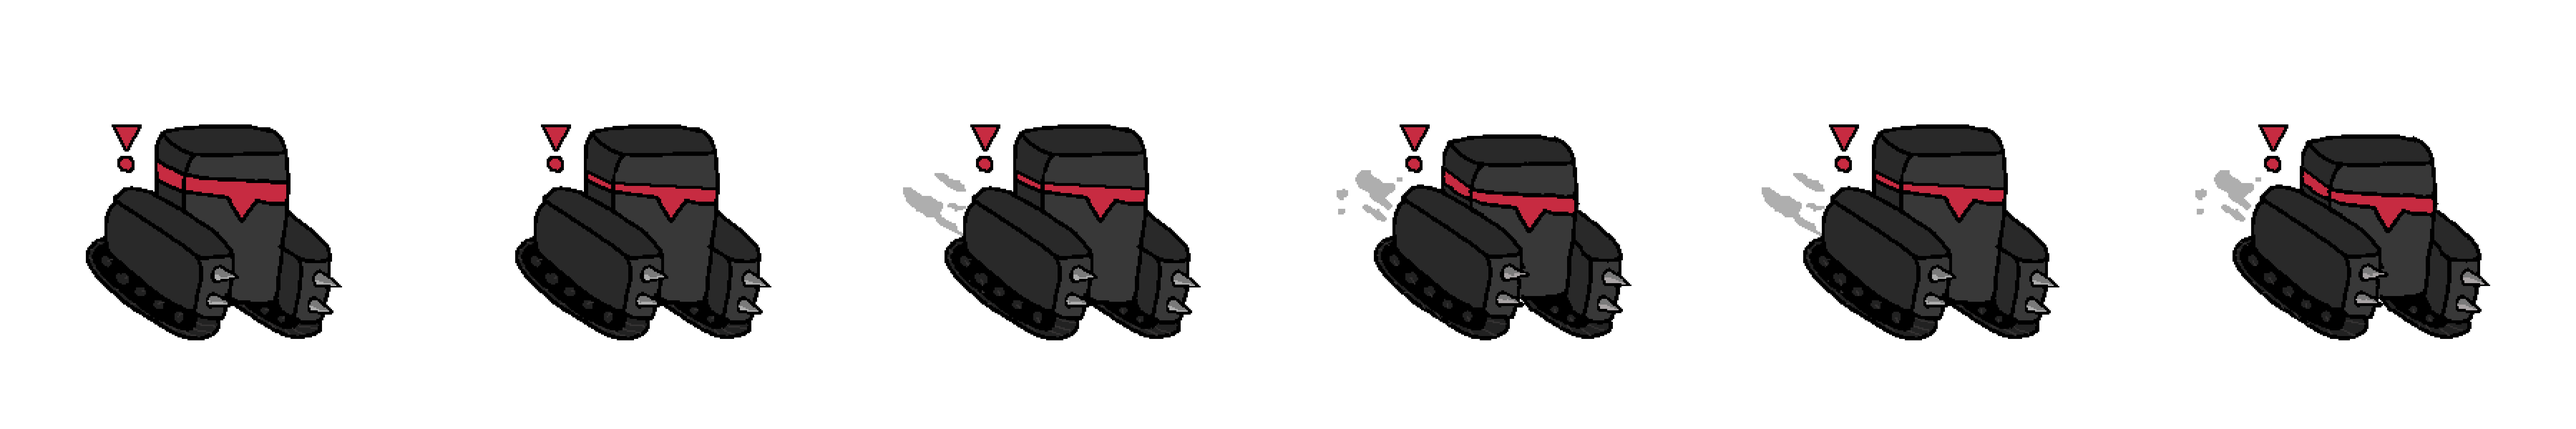
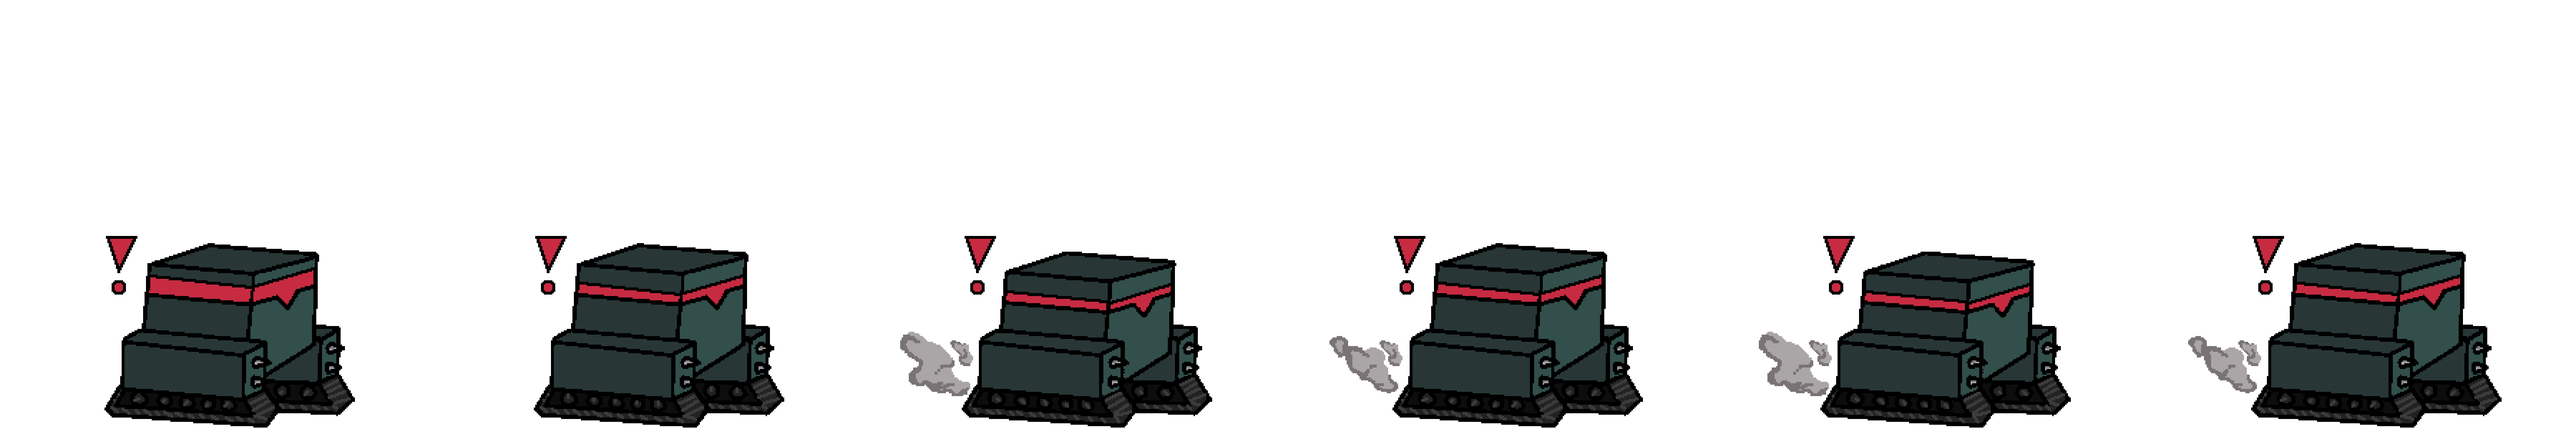
resprited enemies

diff --git a/Assets/Scripts/DEMO/Josh's Demo/TankEnemy.cs b/Assets/Scripts/DEMO/Josh's Demo/TankEnemy.cs
@@ -65,6 +65,7 @@ public class TankEnemy : MonoBehaviour, Enemy
                     FindPlayer();
                     break;
                 case State.attacking:
+                    if(rb.velocity.magnitude < .2f) dir = Mathf.Sign(player.transform.position.x - transform.position.x);
                     float checkX1 = Mathf.Sign(rb.velocity.x) * 1.5f;
                     bool isStopped1 = !Physics2D.OverlapCircle(transform.position + new Vector3(checkX1, 0), .1f, tileMask) ||
                                 Physics2D.OverlapCircle(transform.position + new Vector3(checkX1, .5f), .3f, tileMask);
